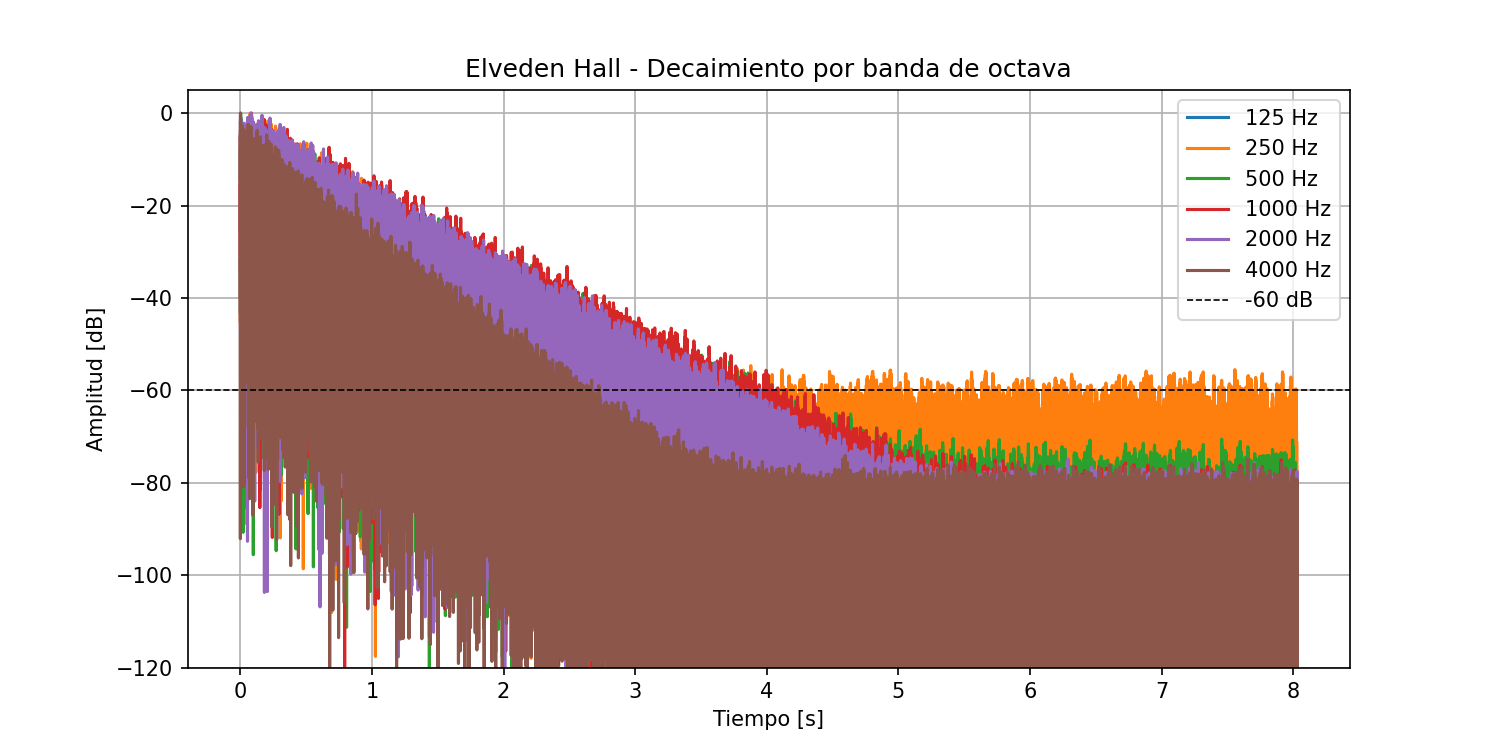
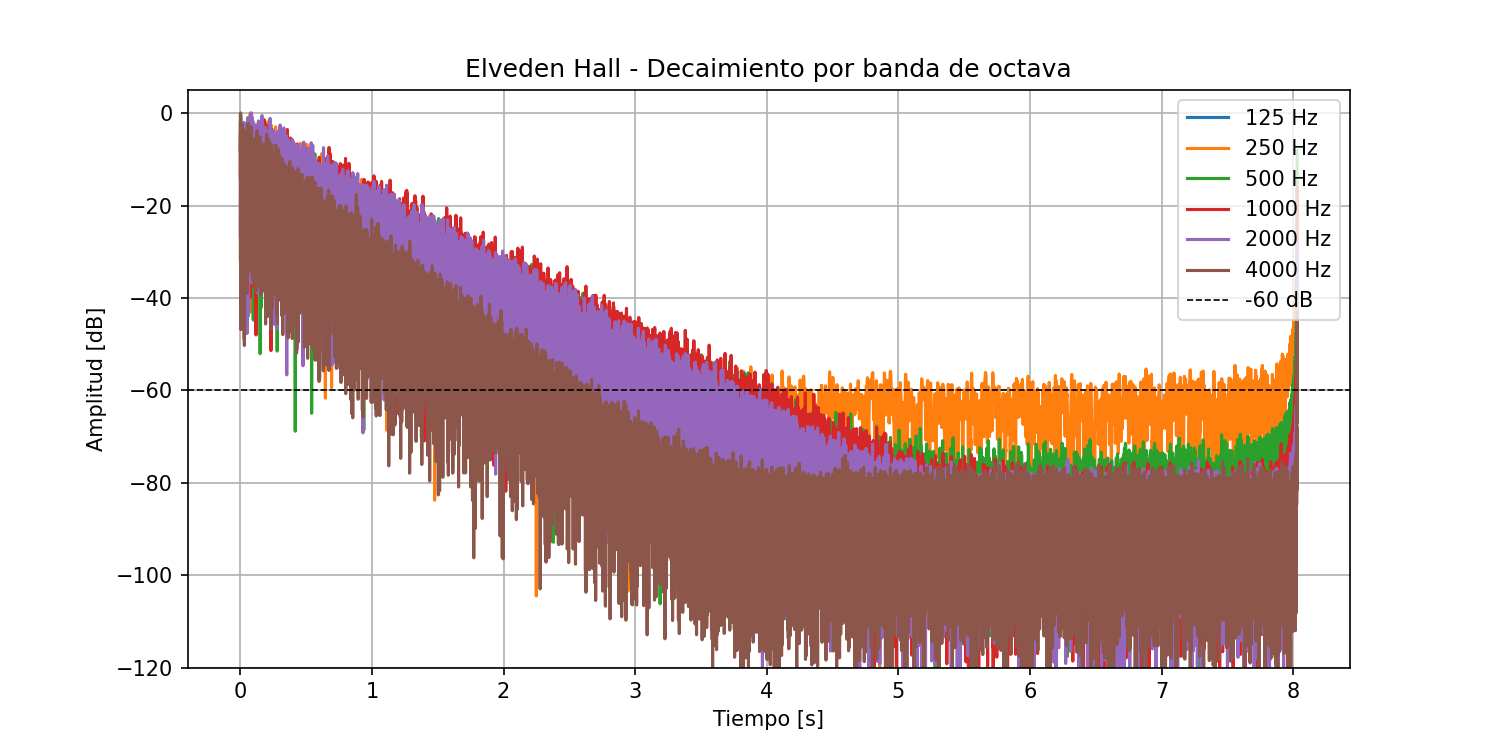
docs: Actualizado CLADUDE.md

diff --git a/docs/m2/generate_m2.py b/docs/m2/generate_m2.py
@@ -3,6 +3,7 @@ import sys
 
 import matplotlib.pyplot as plt
 import numpy as np
+from scipy.signal import hilbert
 
 # =========================
 # FIX PATH (ROOT DEL PROYECTO)
@@ -71,7 +72,7 @@ print("OK Guardado:", out_file)
 
 # Decaimiento logaritmico
 plt.figure(figsize=(10, 4))
-plt.plot(t_e, a_escala_log(ri_e))
+plt.plot(t_e, a_escala_log(np.abs(hilbert(ri_e))))
 plt.title("Elveden Hall - Decaimiento logaritmico")
 plt.xlabel("Tiempo [s]")
 plt.ylabel("Amplitud [dB]")
@@ -88,7 +89,7 @@ print("OK Guardado:", out_file)
 plt.figure(figsize=(10, 5))
 for fc in BANDAS:
     banda = filtro_octava(ri_e, fc=float(fc), fs=fs_e)
-    plt.plot(t_e, a_escala_log(banda), label=f"{fc} Hz")
+    plt.plot(t_e, a_escala_log(np.abs(hilbert(banda))), label=f"{fc} Hz")
 plt.title("Elveden Hall - Decaimiento por banda de octava")
 plt.xlabel("Tiempo [s]")
 plt.ylabel("Amplitud [dB]")
@@ -121,7 +122,7 @@ print("OK Guardado:", out_file)
 
 # Decaimiento logaritmico
 plt.figure(figsize=(10, 4))
-plt.plot(t_m, a_escala_log(ri_m))
+plt.plot(t_m, a_escala_log(np.abs(hilbert(ri_m))))
 plt.title("Maes Howe - Decaimiento logaritmico")
 plt.xlabel("Tiempo [s]")
 plt.ylabel("Amplitud [dB]")
@@ -138,7 +139,7 @@ print("OK Guardado:", out_file)
 plt.figure(figsize=(10, 5))
 for fc in BANDAS:
     banda = filtro_octava(ri_m, fc=float(fc), fs=fs_m)
-    plt.plot(t_m, a_escala_log(banda), label=f"{fc} Hz")
+    plt.plot(t_m, a_escala_log(np.abs(hilbert(banda))), label=f"{fc} Hz")
 plt.title("Maes Howe - Decaimiento por banda de octava")
 plt.xlabel("Tiempo [s]")
 plt.ylabel("Amplitud [dB]")

diff --git a/CLAUDE.md b/CLAUDE.md
@@ -1,4 +1,4 @@
-# RIR-API · Señales y Sistemas · UNTREF
+# RIR-API · Señales y Sistemas · UNTREF
 
 Contexto para Claude Code. Leer antes de tocar cualquier archivo.
 
@@ -15,18 +15,8 @@ Materia: Señales y Sistemas, carrera Ingeniería de Sonido, UNTREF.
 ## Estado actual
 
 - **M1 (Generación):** completo. Tag `v0.1.0` en main.
-- **M2 (Procesamiento):** implementado, con tests y PRs mergeados en main. Pendiente el tag hasta confirmar que no hay correcciones.
+- **M2 (Procesamiento):** completo. Tag `v0.2.0` en main.
 - **M3 (Producto final):** pendiente. Vence 7 de julio de 2026.
-
-## Pendiente para cerrar M2
-
-Una vez confirmado que no hay correcciones, crear el tag en main:
-
-```bash
-git checkout main && git pull origin main
-git tag -a v0.2.0 -m "M2: procesamiento de RI"
-git push origin v0.2.0
-```
 
 ## M2 — ya implementado
 
